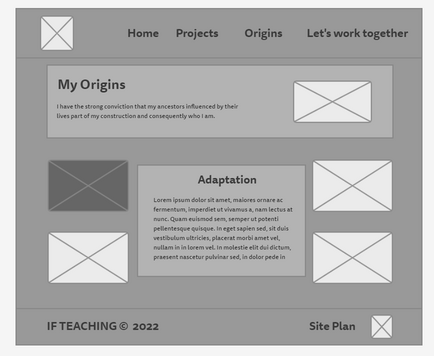
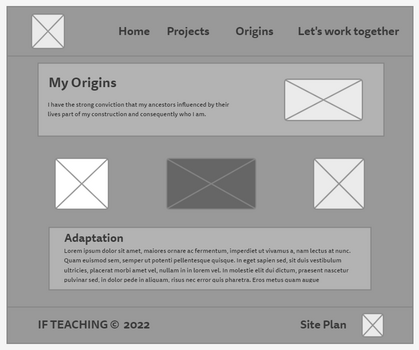
changes ifteaching

diff --git a/ifteaching/styles/style.css b/ifteaching/styles/style.css
@@ -144,11 +144,9 @@ footer .social img {
     display: grid;
     grid-template-columns: repeat(12, 7%);
     justify-items: center;
-    align-content: center;
     grid-template-rows: auto;
     gap: 10px;
     margin-left: 50px;
-    object-fit: scale-down;
   }
   
   .card1-project, .card2-project {
@@ -290,12 +288,8 @@ footer .social img {
   display: grid;
   grid-template-columns: repeat(10, 10%);
   justify-items: center;
-  align-content: center;
   grid-template-rows: repeat(10, auto);
   gap: 10px;
-  column-gap: 20px;
-  margin-left: 80px;
-  object-fit: scale-down;
 }
   
 .text1 {
@@ -314,7 +308,7 @@ footer .social img {
 
 .text1{
   z-index: 0;
-  grid-column: 3/9;
+  grid-column: 2/9;
   grid-row: 1/4;
 }
 
@@ -359,7 +353,7 @@ footer .social img {
   padding-right: 5px;
   padding-bottom: 5px;
   justify-content: center;
-  grid-column: 5/7;
+  grid-column: 4/7;
   grid-row-start: 4;
   transition: transform .5s;
 }
@@ -368,11 +362,11 @@ footer .social img {
   border: 2px solid #696969;
   border-radius: 5px;
   margin-top: 40px;
-  padding-left: 10px;
-  padding-right: 10px;
+  padding-left: 15px;
+  padding-right: 15px;
   padding-top: 15px;
   justify-content: center;
-  grid-column: 3/5;
+  grid-column: 2/4;
   grid-row-start: 4;
   transition: transform .5s;
 }
@@ -382,8 +376,8 @@ footer .social img {
   border: 2px solid #696969;
   border-radius: 5px;
   margin-top: 50px;
-  padding-left: 10px;
-  padding-right: 10px;
+  padding-left: 15px;
+  padding-right: 15px;
   padding-top: 15px;
   justify-content: center;
   grid-column: 7/9;
@@ -401,7 +395,7 @@ footer .social img {
   border-top: 2px solid #137DC5;
   border-bottom: 2px solid #137DC5;
   margin-top: 50px;
-  grid-column: 3/9;
+  grid-column: 2/9;
   grid-row: 6/10; 
   overflow-Y: visible;
   overflow-x: hidden;
@@ -459,13 +453,13 @@ footer .social img {
       justify-content: center;
     }
 
-    .body h2, h4, p {
+   /* .body h2, h4, p {
       font-size: 80%;
     } 
 
     #span_text1 {
       font-size: 80%;
-    }
+    }*/
 
 
     .card-origins, .card-button {
